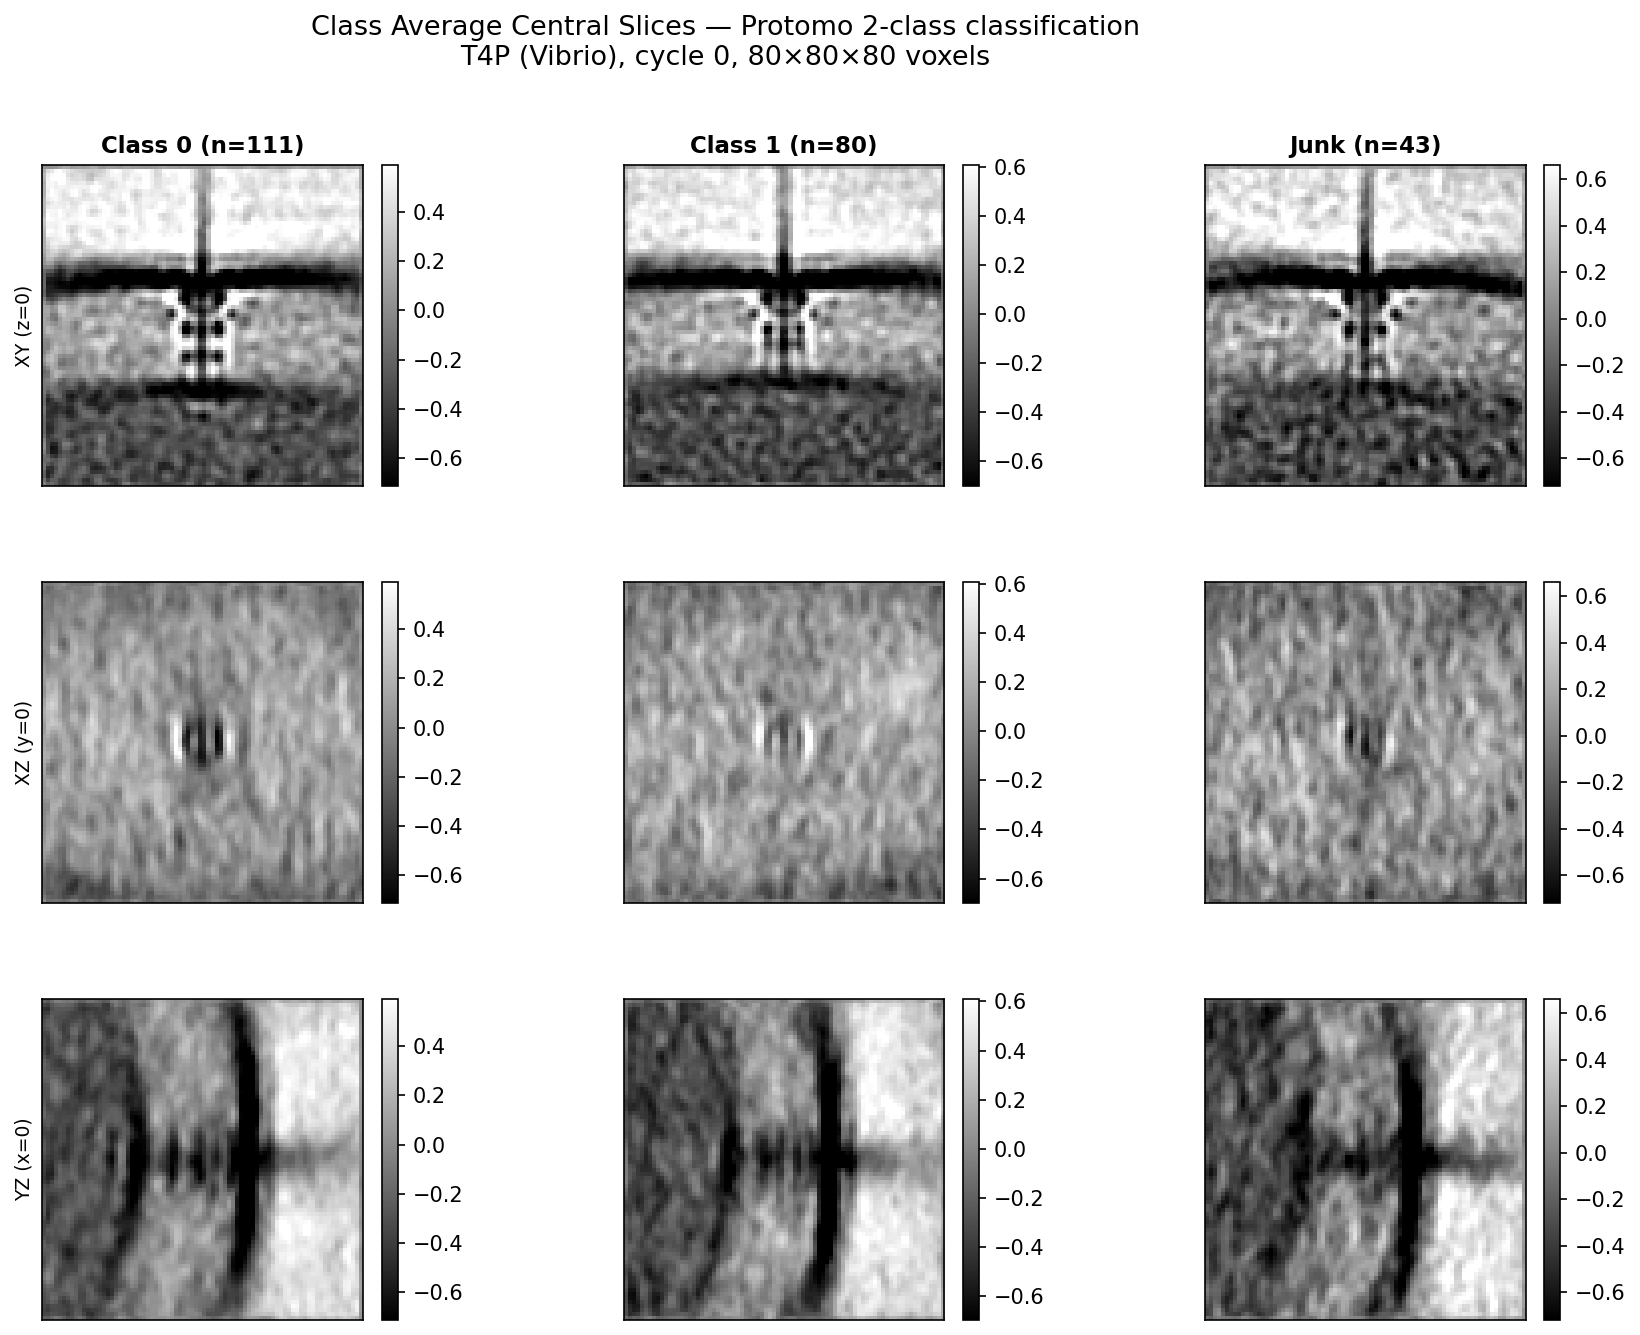
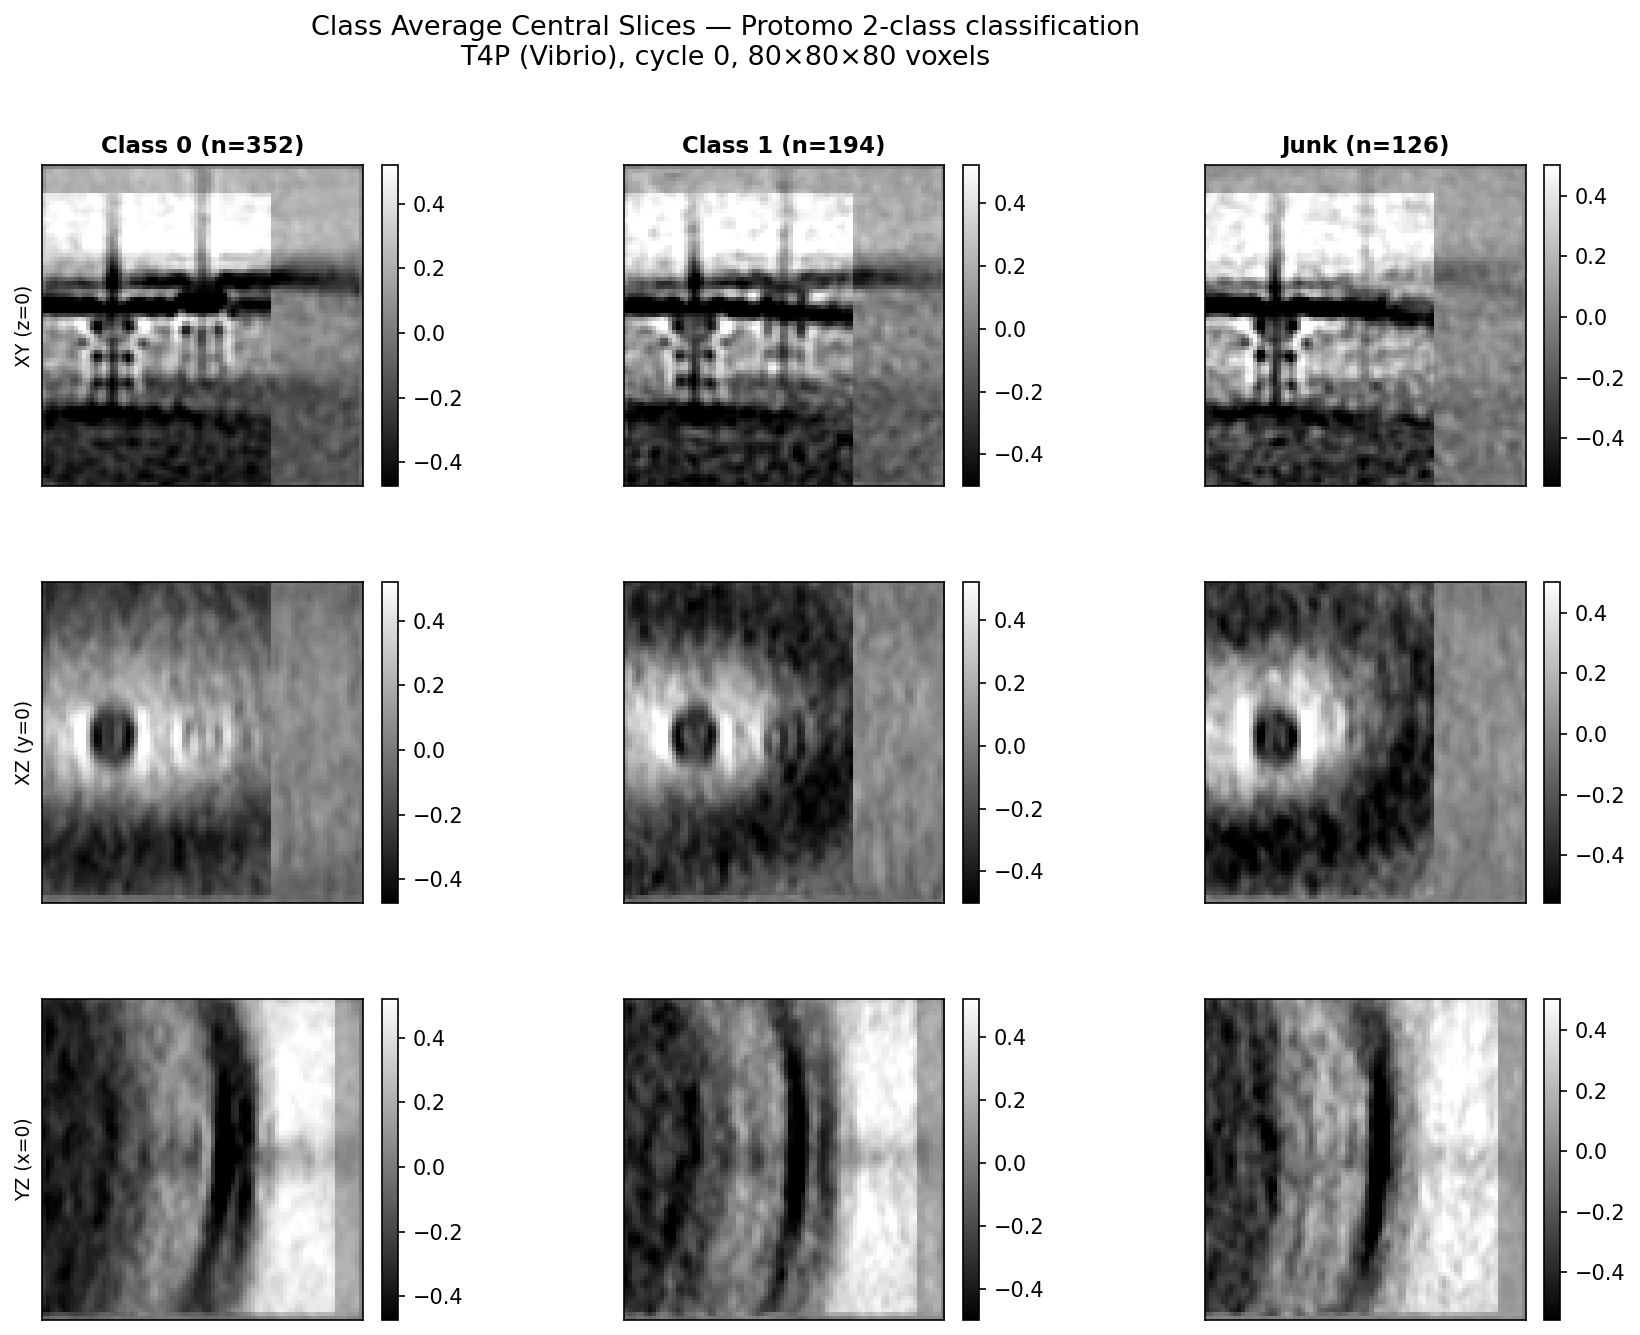
protomo: rerun T4P classification on all 672 particles (was 234)
Initial run used only 234/672 particles due to ProTomo's MRAAREA=0.8
overlap filter discarding edge particles, and broken symlinks after the
June 2026 repo reorg. Fixed both issues: rebuilt symlinks → data/T4P_subtomos/,
set MRAAREA=0.0, MRAPKR=0 0 0, MSAIMGSIZE=32³. Result unchanged: CC=0.921,
split 352/194/126 junk — edge particles do not affect classification.
Updated protomo/README.md, packages/README.md, STATUS.md, result PNGs.

diff --git a/packages/protomo/README.md b/packages/protomo/README.md
@@ -2,7 +2,7 @@
 
 **Algorithm:** Iterative 3D alignment + multi-reference classification on centered subtomograms  
 **Environment:** Native binary (I3 / ProTomo 3.1.0, system install)  
-**Status:** ✅ T4P 2-class run complete (did not separate the two phases) — lower priority for remaining datasets
+**Status:** ✅ T4P 2-class run complete on all 672 particles (did not separate the two phases) — lower priority for remaining datasets
 
 ---
 
@@ -10,31 +10,27 @@
 
 | Dataset | Status | k (run / reported) | Mask | ARI | Split | Notes |
 |---------|--------|--------------------|------|-----|-------|-------|
-| **T4P** | 🟡 | k=2 / k=2 | none | — (no GT) | 234 particles (438 filtered) → rerun all 672 in progress | CC=0.921 between classes; trivial solution; edge filter discarded 65% of particles — see limitation note below |
+| **T4P** | ✅ | k=2 / k=2 | none | — (no GT) | 352/194/126 junk (all 672) | CC=0.921 between classes; trivial solution — same result as 234-particle run. Symlink rebuild required after repo reorg (June 2026). See limitation note below. |
 | **FM_easy** | ⬜ | k=3 / k=3 | none | — | — | Lower priority |
 | **FM_hard** | ⬜ | — | — | — | — | Not yet run |
 | **T4SS** | ⬜ | — | — | — | — | Not yet run |
 
-> **T4P edge-filter limitation:** ProTomo's `.i3i` format stores original tomogram bounds for
-> each particle. When individual pre-extracted 80³ MRCs are assembled into a dataset, ProTomo
-> checks whether each extraction box has ≥80% overlap with its source tomogram volume
-> (`MRAAREA=0.8`). 438 of 672 T4P particles (65%) fail this check because they were picked
-> near the z-boundaries of their source tomograms without a margin exclusion. The initial run
-> used the 234 "fully-centred" particles only. All other benchmark packages ingest the
-> pre-extracted MRCs directly and do not apply this check — so the initial ProTomo result is
-> **not comparable** to the rest of the benchmark. A rerun on all 672 is in progress
-> (`~/Research/protomo/full672/`): `MRAPKR="0 0 0"` (translation-free, particles prealigned) and
-> `MSAIMGSIZE="32 32 32"` (SVD uses only the central 32³ cube, unaffected by edge zero-padding)
-> should make the classification valid even for edge particles. Class averages may appear
-> slightly off-axis for the edge-particle subset but the SVD-based class assignments are valid.
+> **T4P edge-filter note:** ProTomo's `MRAAREA` parameter checks whether each particle's
+> aligned position falls within 80% of the box volume. 438/672 T4P particles (65%) have
+> overlap 0.63–0.64 — they were picked near the z-boundaries of their source tomograms,
+> leaving one side of the 80³ box zero-padded. The initial run filtered these to 234
+> particles only. The full-672 rerun used `MRAPKR="0 0 0"` (no translation search) and
+> `MRAAREA=0.0` (no overlap filtering) with `MSAIMGSIZE="32 32 32"` (SVD on central 32³
+> cube only, unaffected by edge zero-padding). Result is identical: CC=0.921 — the zero-
+> padded particles do not affect classification. The repo reorganization (2026-06-06) also
+> broke the symlinks in `prepare/stacks/`; these were rebuilt pointing to `data/T4P_subtomos/`.
 
 ---
 
 ## Key Findings
 
-- **Initial run used only 234/672 particles** — not comparable to other benchmark packages.
-  Root cause: ProTomo's `.i3i` metadata check discarded 438 particles as "near-edge" (see limitation note above). Rerun on all 672 in progress.
-- High inter-class CC (0.921) in 234-particle run indicates trivial solution; one dominant class.
+- Full-672 rerun complete: split 352/194/126 junk, inter-class CC=0.921 — identical to the 234-particle result. The edge particles do not affect the classification outcome.
+- High inter-class CC (0.921) confirms ProTomo does not separate the two T4P phases — one dominant class.
 - ProTomo is primarily an alignment package; classification is a secondary capability.
 
 ---

diff --git a/packages/README.md b/packages/README.md
@@ -35,7 +35,7 @@ tight cylindrical). See `docs/datasets.md` for junk class handling per package.
 | [EMAN2](eman2/) | ✅ | 270/317 (+85 junk) | none | **No** | <img src="eman2/T4P/results/eman2_T4P_k3_none_r01_classavg.png" width="150"> | Canonical k=3 complete; does not separate two phases; PCA axis = contrast, not conformation |
 | [DISCA](disca/) | 🟡 | ~630/42 (old run) | none | **No** | <img src="disca/T4P/results/disca_k2_classes.png" width="150"> | ~94% dominant class; k=3 canonical run needed |
 | [TomoFlow](tomoflow/) | 🟡 | — (old run) | none | **No** | <img src="tomoflow/T4P/results/tomoflow_k2_classes.png" width="150"> | Unimodal; k=3 canonical run needed |
-| [ProTomo](protomo/) | ✅ | 234/0 (438 filtered) | none | **No** | <img src="protomo/T4P/results/class_averages_slices.png" width="150"> | Centering filter = junk removal; CC=0.921 trivial |
+| [ProTomo](protomo/) | ✅ | 352/194/126 junk (all 672) | none | **No** | <img src="protomo/T4P/results/class_averages_slices.png" width="150"> | CC=0.921 trivial; same result as 234-particle run. Full-672 rerun 2026-06-09. |
 | [STOPGAP](STOPGAP/) | ⬜ | — | cyl v2 | — | ⬜ | Owned by Eben; crash guard needed before run |
 
 ---
@@ -79,7 +79,7 @@ No runs yet. See `docs/datasets.md` for planned parameters.
 | **EMAN2** | PCA split on subtomogram stack with wedge-fill | `eman2` | Wedge-fill patch applied 2026-06-05; canonical k=3 run needed |
 | **DISCA** | Template-free deep unsupervised clustering (pytorch) | `disca` | ~94% dominant class at all k — no domain priors = SNR failure |
 | **TomoFlow** | ContinuousFlex optical-flow conformational classification | `tomoflow` | Unimodal landscape; CUDA texture-ref porting for sm_120 |
-| **ProTomo (I3)** | Iterative alignment + multi-reference classification | native binary | 438/672 filtered; centering filter acts as junk removal |
+| **ProTomo (I3)** | Iterative alignment + multi-reference classification | native binary | Full-672 rerun complete 2026-06-09; CC=0.921 trivial (same as 234-particle run) |
 | **STOPGAP** | Subtomogram averaging + PCA + k-means (MATLAB MCR) | MATLAB R2023b MCR | Owned by Eben; pipeline ready; not yet run |
 
 ---

diff --git a/STATUS.md b/STATUS.md
@@ -69,7 +69,7 @@ Legend: ✅ done · 🟡 in progress · ⬜ not started · ❌ skip · — n/a/u
 | PEET | ✅ | IMOD | ✅ | ✅ | — | — | ✅ | Two runs complete (2026-06-04). **v1** (cyl r=11.2): 388/216/68. **v2** (cyl r=13, below-center): 374/230/68, AIC=659. Labels: ring_complete/ring_altered/junk. CSVs + figures in `peet/results/`. Cylindrical mask → include PC1 (structural signal). Still need Stefano's MOTL for exact GT. |
 | MDTOMO | ❌ | — | ⬜ | ⬜ | ⬜ | ⬜ | — | Part of Scipion3 ContinuousFlex plug-in; requires initial atomic model/reference map; cannot sort datasets like we're doing right now. |
 | TomoFlow | ✅ | `tomoflow` | ✅ `tomoflow_run.py` | ✅ | ✅ | ✅ | — | also ContinuousFlex, but (unlike MDTOMO/HEMNMA) needs only a **subtomogram-average reference, not an atomic model** — so we DID run it standalone. Required porting farneback3d off CUDA texture-refs for CUDA 13.2/sm_120 (`tomoflow/research.md` §2). Landscape unimodal → **misses the two phases** (k=3 two big classes CC 0.956). `tomoflow/results/` |
-| I3 / ProTomo | ✅ | (native) | ✅ | ✅ | — | — | ✅ | 3.1.0 installed; 2-class run on 234 centered particles (438 edge filtered); CC=0.921; see `protomo/research.md` + session log |
+| I3 / ProTomo | ✅ | (native) | ✅ | ✅ | — | — | ✅ | **Full-672 rerun complete 2026-06-09.** Split: 352/194/126 junk. CC=0.921 (identical to 234-particle run). Initial 234-particle result was not benchmark-comparable; edge-filter + broken symlinks both fixed. See `protomo/README.md`. |
 | EMAN2 | ✅ | `eman2` | ✅ | ✅ | ⬜ | ⬜ | ✅ | **No-align rerun complete (2026-06-08, Eben).** Split: **405 / 273** (cls02/cls01). Consensus FSC: masked=82 Å, masked-tight=71 Å; per-class both 82 Å. **Result: still misses the two phases** — ~60/40 partition does not map to ring_complete/ring_altered; class averages nearly identical by eye at 82 Å. Pipeline: identity `particle_parms` via `make_identity_parms.py` → `e2spt_average` → `e2refine_postprocess` → `e2spt_pcasplit` (mask=`spt_noalign/mask_tight.hdf`, maxres=60 Å). Wedgefill patch (Patch 2) active. Outputs: `packages/eman2/results/`; workspace `~/src/eman2_project/`; docs: `packages/eman2/research.md`. k=3/k=4 not yet run. |
 | emClarity | ✅ | MCR R2019a | ⬜ (real data n/a) | — | — | — | — | **installed + GPU-verified on RTX 5080/sm_120** (1.5.3.11 + MCR R2019a; CUDA-10 kernels JIT to Blackwell via the 13.2 driver). **Cannot run on real T4P:** tilt-series pipeline, no path to ingest pre-extracted subtomos → **synthetic-data track only**. See `EMCLARITY.md` |
 | PyTom | ✅ | `pytom_env` | ✅ | ✅ | ✅ | ⬜ | — | **T4P FIXED (2026-06-05):** v2 cylindrical mask (r=13, h_pos=0, h_neg=25) + `-a` flag (FRM module absent — see memory). k=2: **440/232** (converged iter 5, class 1≈PEET ring_altered). k=3: **422/150/100** (iter 11). Results: `results/pytom_v2mask_k{2,3}.csv`; figures: `PyTom/figures_v2mask_k{2,3}/`. Previous failure was wrong mask. k=4 not yet run. **motor_easy (prior session):** k=2 ARI=0.090, k=3 ARI=**0.134** (v2mask). Scripts: `packages/PyTom/setup_motor_easy_pytom.py`, `run_motor_easy_pytom.sh`. |